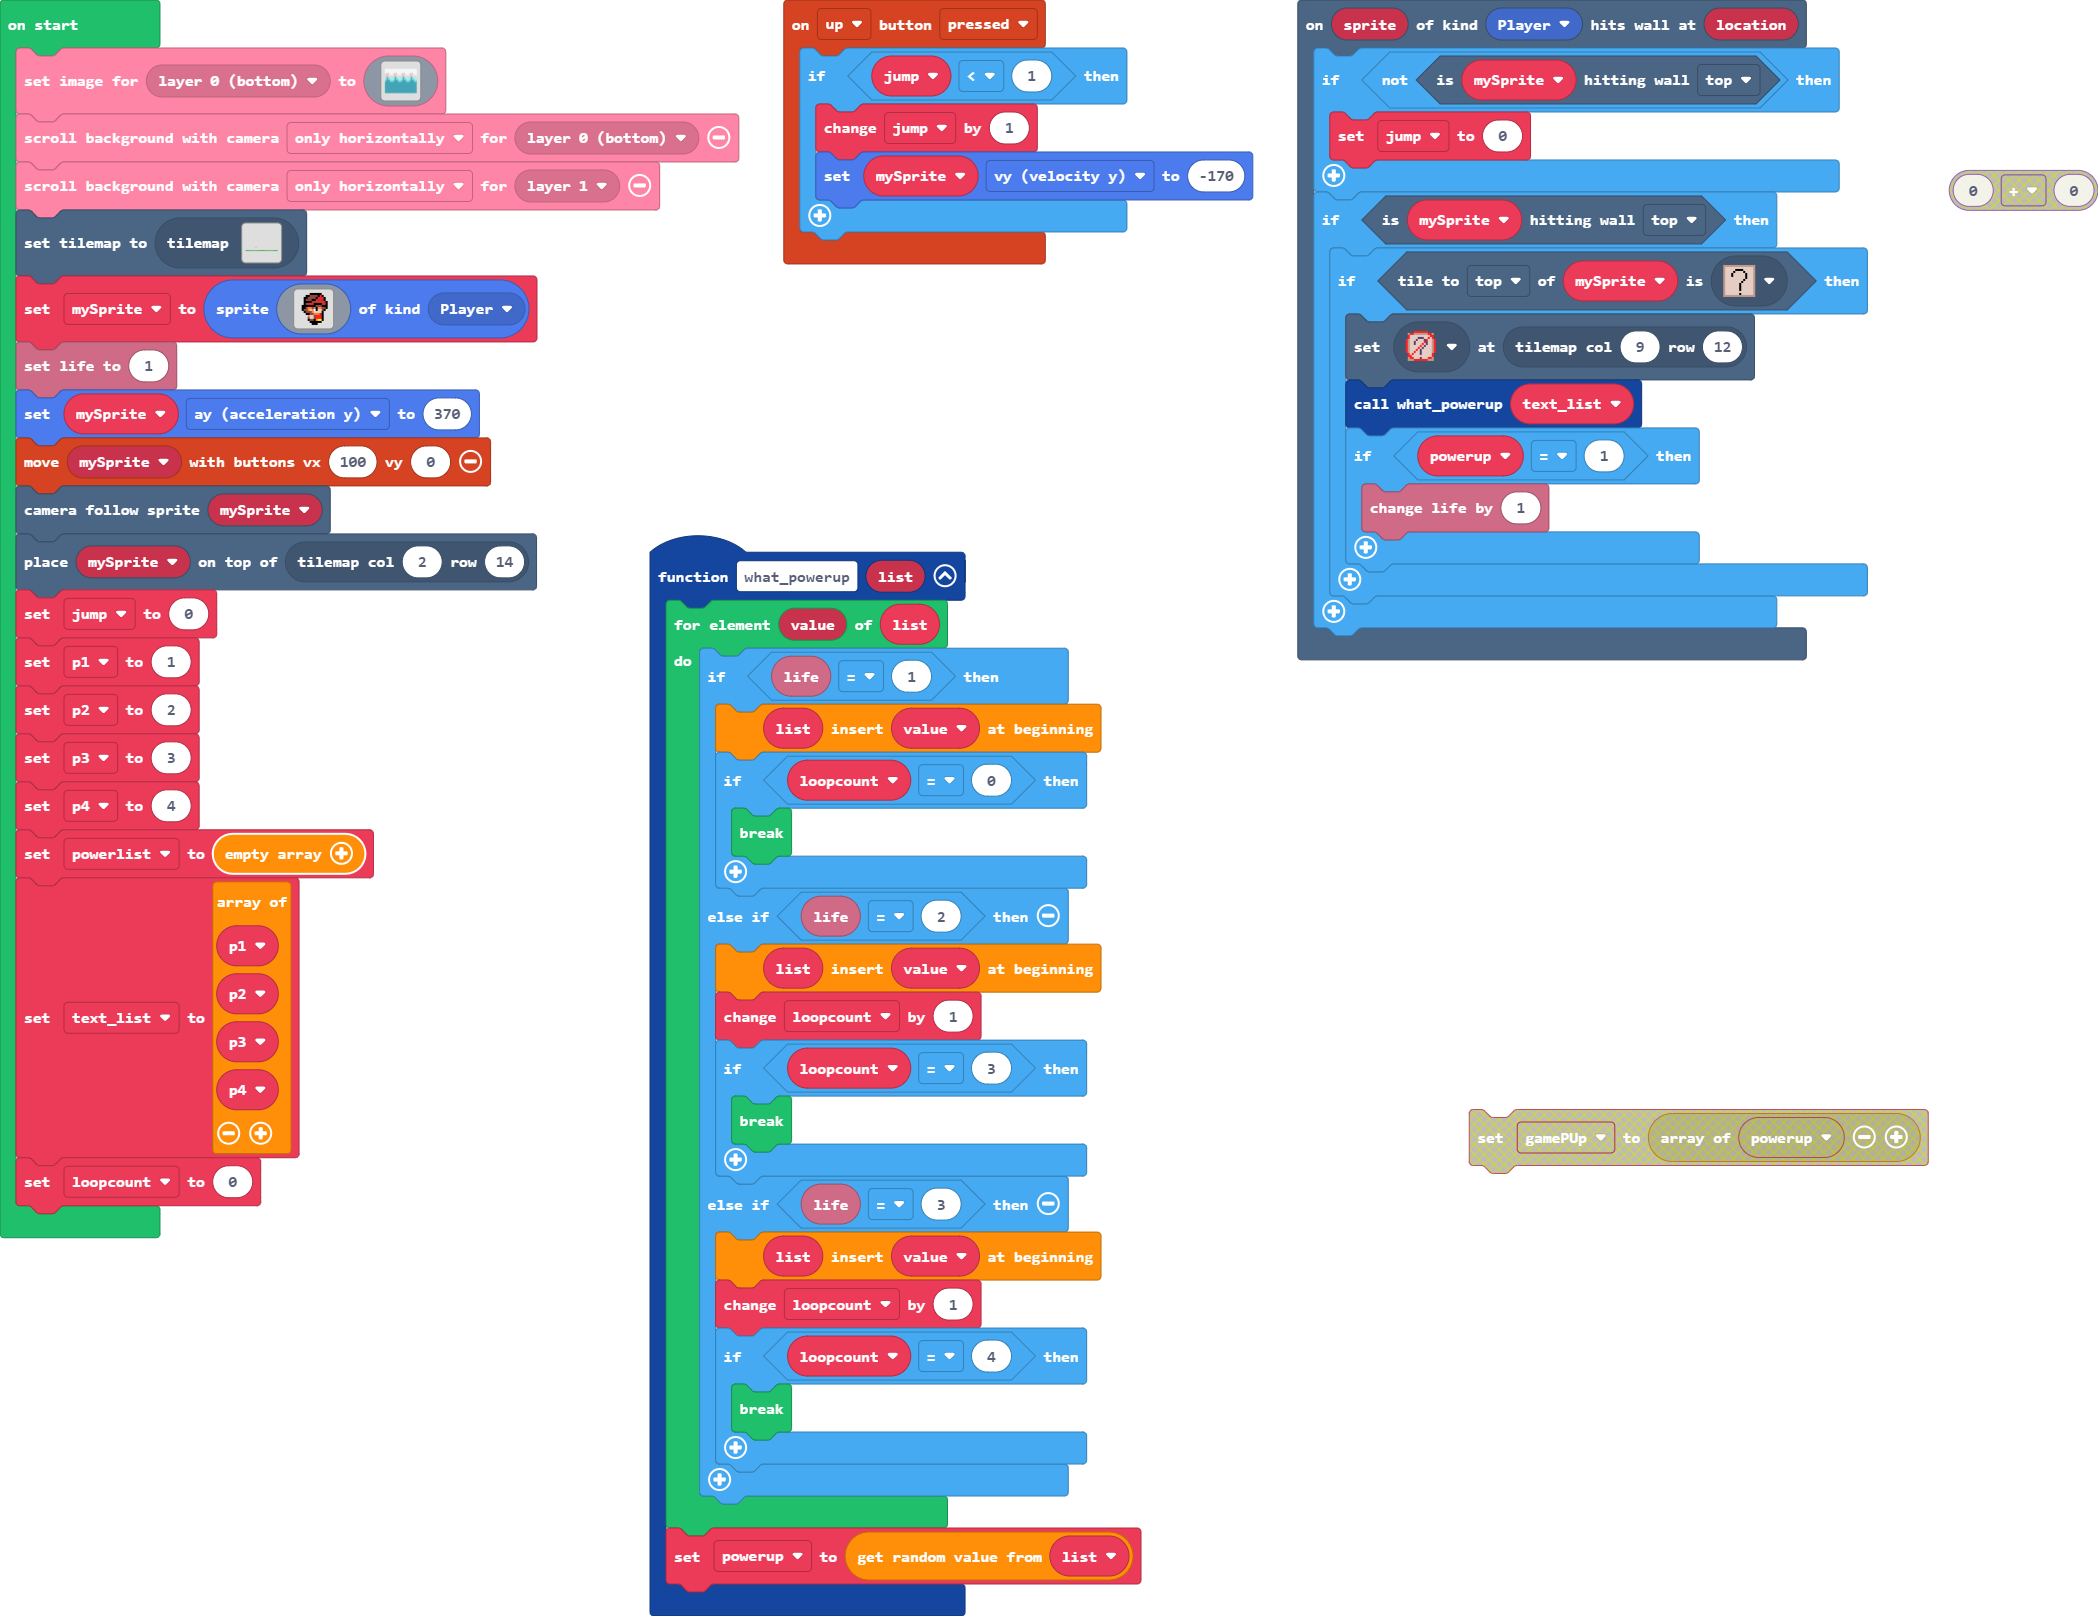
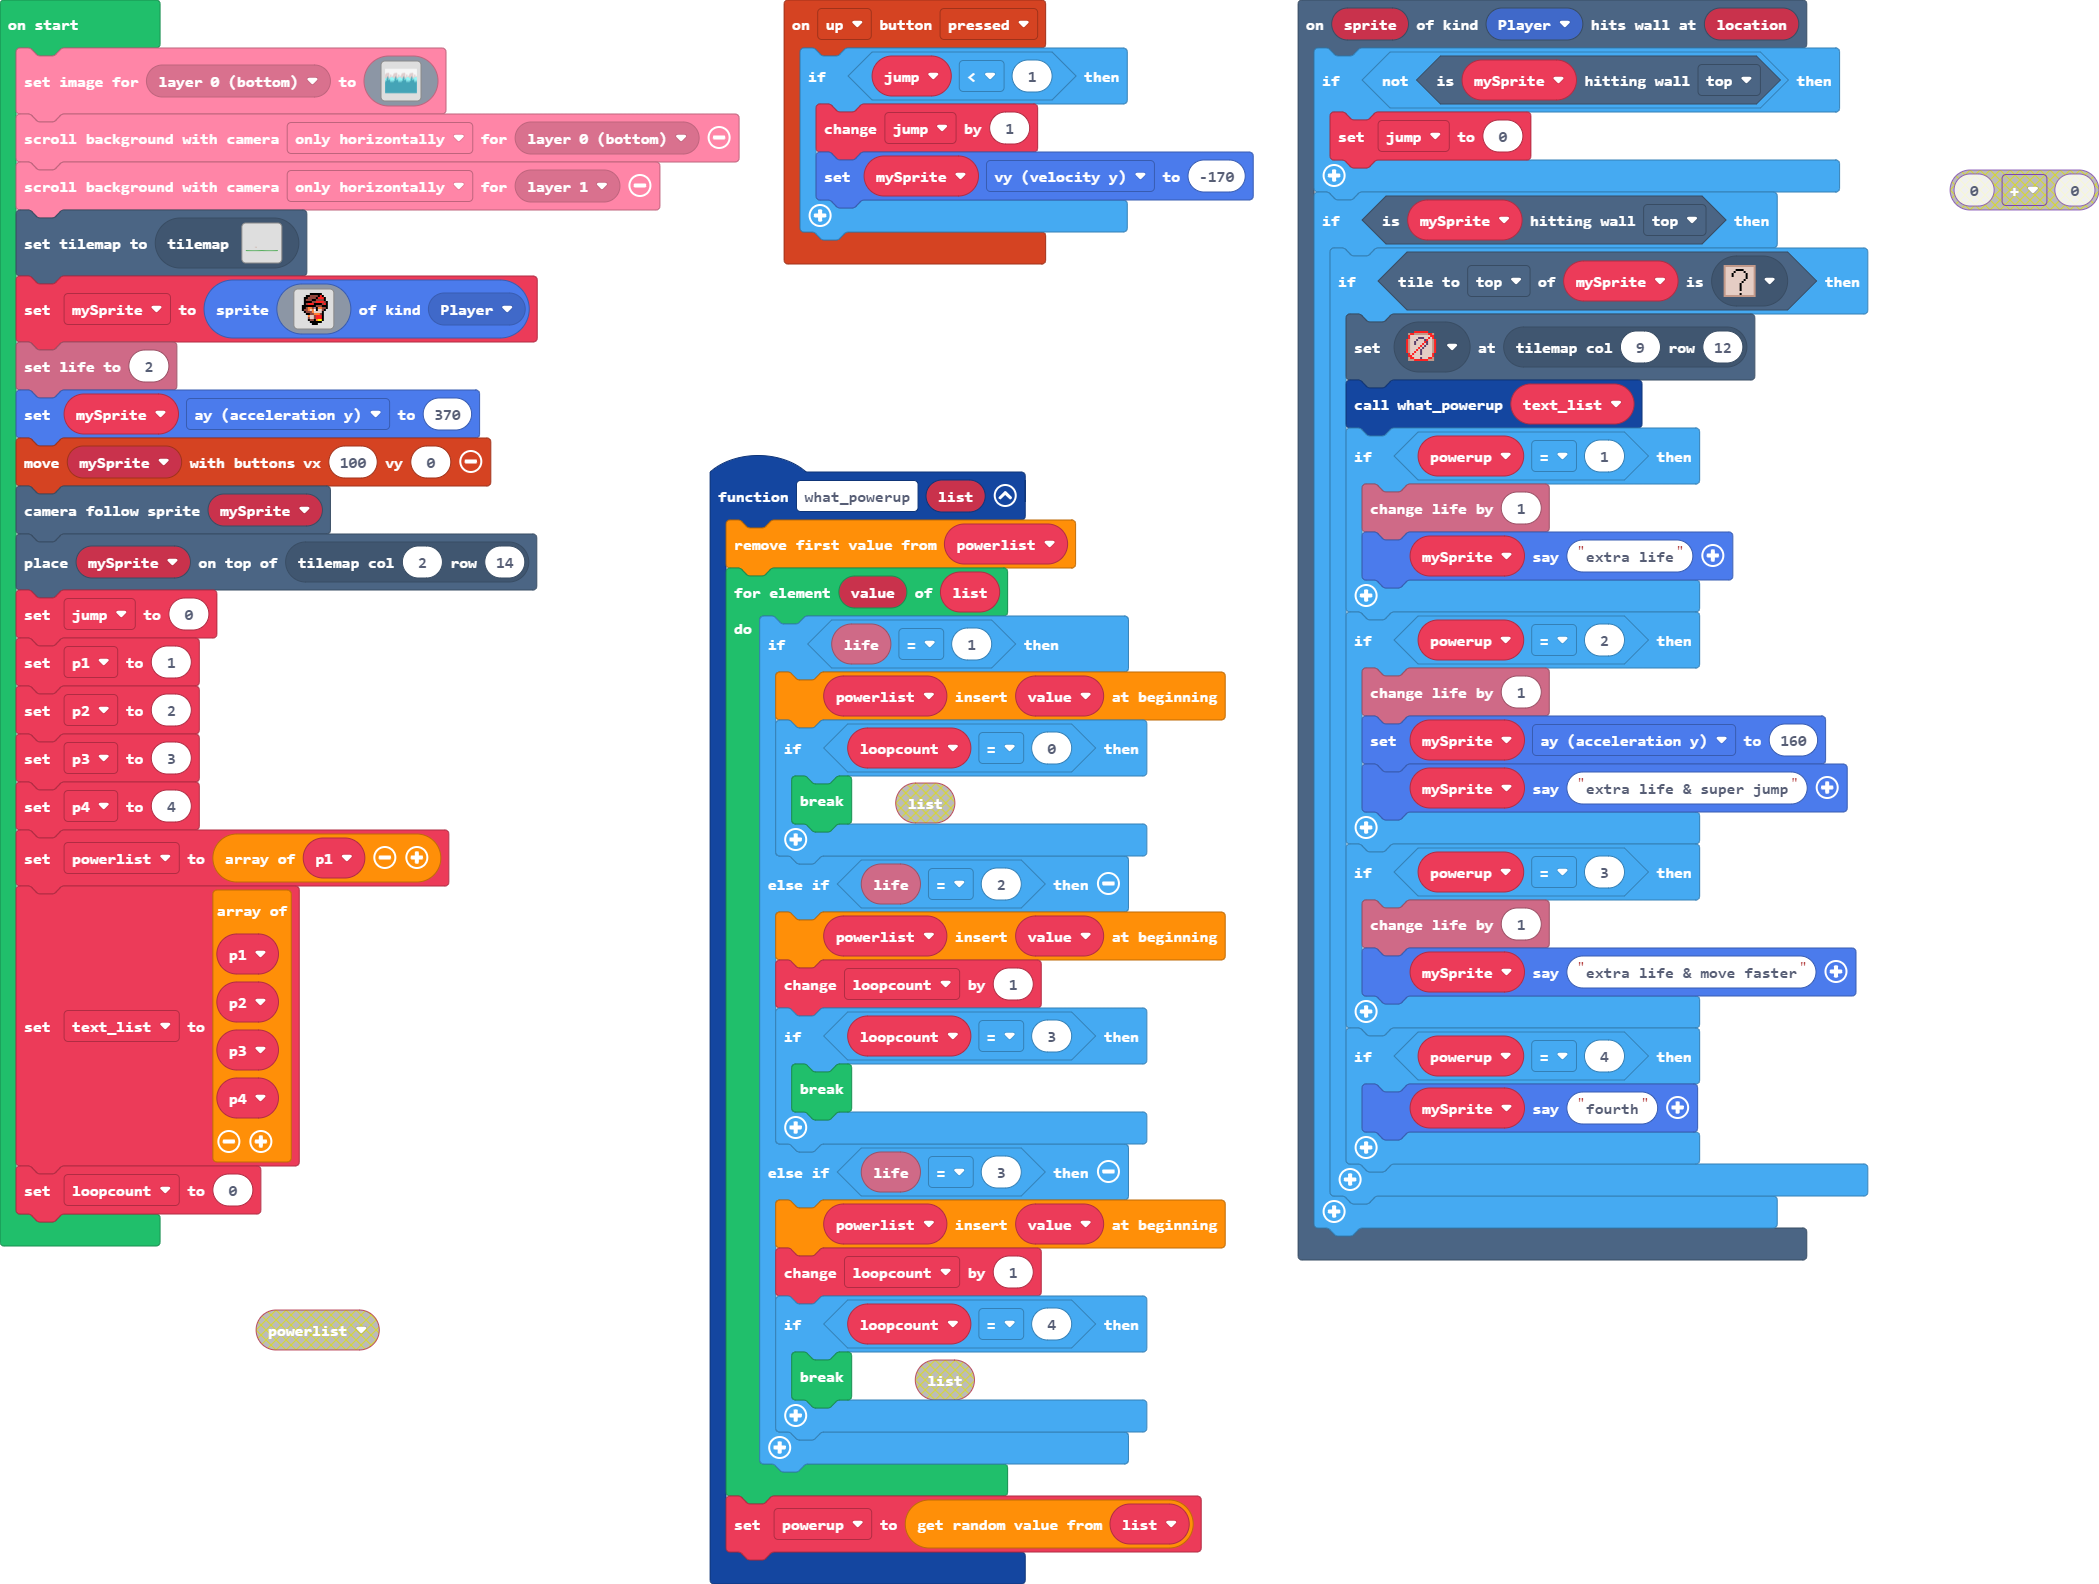
fixed function and added a better list to choose powerups from

diff --git a/main.ts b/main.ts
@@ -14,25 +14,39 @@ scene.onHitWall(SpriteKind.Player, function (sprite, location) {
             what_powerup(text_list)
             if (powerup == 1) {
                 info.changeLifeBy(1)
+                mySprite.sayText("extra life")
+            }
+            if (powerup == 2) {
+                info.changeLifeBy(1)
+                mySprite.ay = 160
+                mySprite.sayText("extra life & super jump")
+            }
+            if (powerup == 3) {
+                info.changeLifeBy(1)
+                mySprite.sayText("extra life & move faster")
+            }
+            if (powerup == 4) {
+                mySprite.sayText("fourth")
             }
         }
     }
 })
 function what_powerup (list: number[]) {
+    powerlist.shift()
     for (let value of list) {
         if (info.life() == 1) {
-            list.unshift(value)
+            powerlist.unshift(value)
             if (loopcount == 0) {
                 break;
             }
         } else if (info.life() == 2) {
-            list.unshift(value)
+            powerlist.unshift(value)
             loopcount += 1
             if (loopcount == 3) {
                 break;
             }
         } else if (info.life() == 3) {
-            list.unshift(value)
+            powerlist.unshift(value)
             loopcount += 1
             if (loopcount == 4) {
                 break;
@@ -44,6 +58,7 @@ function what_powerup (list: number[]) {
 let powerup = 0
 let loopcount = 0
 let text_list: number[] = []
+let powerlist: number[] = []
 let jump = 0
 let mySprite: Sprite = null
 scroller.setLayerImage(scroller.BackgroundLayer.Layer0, img`
@@ -189,7 +204,7 @@ mySprite = sprites.create(img`
     . . . . . . f f f f f f . . . . 
     . . . . . . . f f f . . . . . . 
     `, SpriteKind.Player)
-info.setLife(1)
+info.setLife(2)
 mySprite.ay = 370
 controller.moveSprite(mySprite, 100, 0)
 scene.cameraFollowSprite(mySprite)
@@ -199,7 +214,7 @@ let p1 = 1
 let p2 = 2
 let p3 = 3
 let p4 = 4
-let powerlist: number[] = []
+powerlist = [p1]
 text_list = [
 p1,
 p2,

diff --git a/tilemap.g.ts b/tilemap.g.ts
@@ -93,6 +93,25 @@ namespace myTiles {
 ..............................
 222222222222222222222222222222
 `, [myTiles.transparency16,myTiles.tile1,sprites.builtin.forestTiles2], TileScale.Sixteen);
+            case "level5":
+            case "level5":return tiles.createTilemap(hex`1000100000000000000000000000000000000000000000000000000000000000000000000000000000000000000000000000000000000000000000000000000000000000000000000000000000000000000000000000000000000000000000000000000000000000000000000000000000000000000000000000000000000000000000000000000000000000000000000000000000000000000000000000000000000000000000000000000000000000000000000000000000000000000000000000000000000000000000000000000000000000000000000000000000000000000000000000000000000000000000000000000000000000000000000000000000000000`, img`
+. . . . . . . . . . . . . . . . 
+. . . . . . . . . . . . . . . . 
+. . . . . . . . . . . . . . . . 
+. . . . . . . . . . . . . . . . 
+. . . . . . . . . . . . . . . . 
+. . . . . . . . . . . . . . . . 
+. . . . . . . . . . . . . . . . 
+. . . . . . . . . . . . . . . . 
+. . . . . . . . . . . . . . . . 
+. . . . . . . . . . . . . . . . 
+. . . . . . . . . . . . . . . . 
+. . . . . . . . . . . . . . . . 
+. . . . . . . . . . . . . . . . 
+. . . . . . . . . . . . . . . . 
+. . . . . . . . . . . . . . . . 
+. . . . . . . . . . . . . . . . 
+`, [myTiles.transparency16], TileScale.Sixteen);
         }
         return null;
     })
